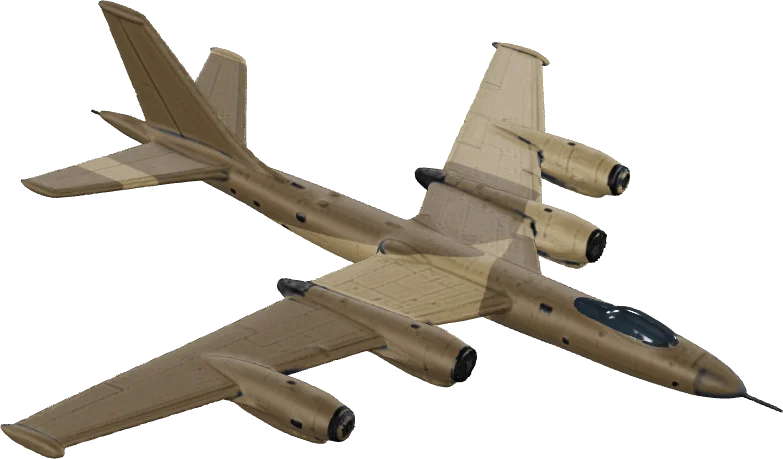
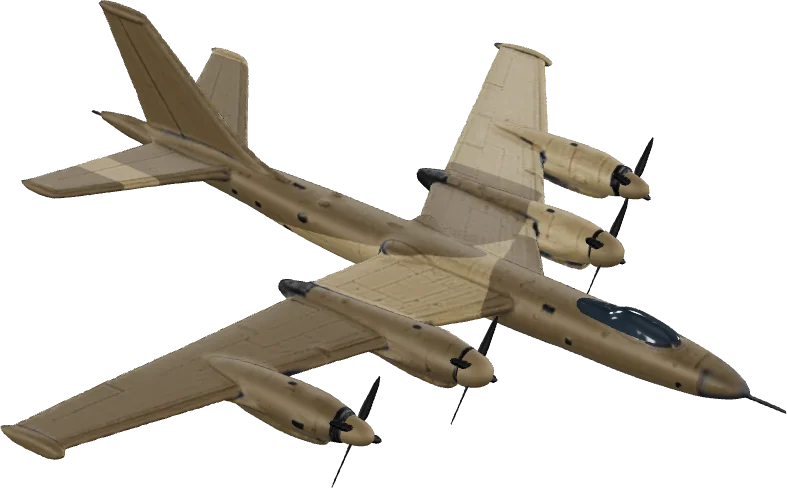
Сайт: логотип и заголовок вместо самолёта наверху, у бомбардировщика крутятся винты
Самолёт в первом экране дублировал карточки ниже (замечание Kanta).
Винты «Кита» взяты из game/models/mech/fh_prop_bomber_1.glb и вращаются
анимацией вокруг своей оси, как в ангаре. ?h=1…5 показывает варианты
заголовка до выбора.

Claude-Session: https://claude.ai/code/session_01FSkwrJ9db99WWxfLP9pMWK

diff --git a/site/index.html b/site/index.html
@@ -59,7 +59,7 @@ html:not([lang="en"]) [data-l="en"],html[lang="en"] [data-l="ru"]{display:none!i
 /* Шапка */
 .top{position:relative;z-index:10;display:flex;justify-content:space-between;align-items:center;gap:12px;padding-top:18px;padding-bottom:18px}
 .brand{font:600 16px/1 var(--f-head);letter-spacing:.06em;color:var(--ink);text-decoration:none;white-space:nowrap}
-.brand i{font-style:normal;color:var(--acc)}
+.brand .emb{width:40px;height:40px;display:block;color:var(--ink)}
 .tools{display:flex;align-items:center;gap:8px}
 .lang{display:flex;background:rgb(255 255 255 / .6);border-radius:999px;padding:3px}
 .lang button{font:600 13px/1 var(--f-body);border:0;background:none;color:var(--dim);padding:8px 10px;border-radius:999px;cursor:pointer}
@@ -78,13 +78,15 @@ html:not([lang="en"]) [data-l="en"],html[lang="en"] [data-l="ru"]{display:none!i
 .cloud{position:absolute;border-radius:50%;background:radial-gradient(closest-side,#fff 0%,rgb(255 255 255 / .85) 45%,rgb(255 255 255 / 0) 100%);filter:blur(2px);animation:drift 40s ease-in-out infinite alternate;pointer-events:none}
 @keyframes drift{from{transform:translateX(-5%)}to{transform:translateX(5%)}}
 .hero{position:relative;text-align:center;padding-top:clamp(20px,5vw,48px);padding-bottom:20px}
-.ghost{position:absolute;left:50%;top:64%;transform:translate(-50%,-50%);font:600 clamp(64px,15vw,210px)/1 var(--f-head);color:rgb(21 26 33 / .05);white-space:nowrap;pointer-events:none;z-index:1}
-.kicker{position:relative;z-index:2;font:600 12px/1.3 var(--f-body);letter-spacing:.24em;text-transform:uppercase;color:var(--dim)}
-h1{position:relative;z-index:2;font:300 clamp(34px,7vw,80px)/1.02 var(--f-head);margin:14px 0 14px;letter-spacing:-.02em;text-wrap:balance}
-h1 b{font-weight:600;display:block}
+.kicker{position:relative;z-index:2;font:600 12px/1.3 var(--f-body);letter-spacing:.24em;text-transform:uppercase;color:var(--dim);margin:0 0 14px}
+.logo{position:relative;z-index:2;display:flex;flex-direction:column;align-items:center;gap:10px;margin:0 0 18px;color:var(--ink)}
+.logo .emb{width:clamp(72px,10vw,104px);height:auto;color:var(--ink);filter:drop-shadow(0 10px 16px rgb(30 50 80 / .18))}
+h1{margin:0;font:600 clamp(42px,9.5vw,118px)/.95 var(--f-head);letter-spacing:.01em;white-space:nowrap}
+h1 i{font-style:normal;color:var(--acc)}
+.slogan{position:relative;z-index:2;font:300 clamp(22px,3.6vw,40px)/1.15 var(--f-head);margin:0 0 14px;letter-spacing:-.01em;text-wrap:balance}
+.slogan b{font-weight:600}
 .sub{position:relative;z-index:2;max-width:48ch;margin:0 auto 24px;color:var(--dim);font-size:18px}
 .cta{position:relative;z-index:4;display:flex;flex-wrap:wrap;gap:10px;justify-content:center}
-.plane{position:relative;z-index:3;width:min(640px,88%);margin:10px auto 0;filter:drop-shadow(0 40px 30px rgb(30 50 80 / .28));animation:bob 6s ease-in-out infinite}
 @keyframes bob{0%,100%{transform:translateY(0) rotate(-1deg)}50%{transform:translateY(-12px) rotate(1deg)}}
 .facts{position:relative;z-index:4;display:flex;justify-content:center;flex-wrap:wrap;gap:10px 28px;margin:18px 0 0;padding:0;list-style:none}
 .facts li{font:600 14px/1.2 var(--f-body);color:var(--dim)}
@@ -168,7 +170,7 @@ footer p{margin:0 0 8px}
   <div class="cloud" style="width:760px;height:240px;left:12%;bottom:-70px;animation-duration:56s"></div>
 
   <header class="in top">
-    <a class="brand" href="/">FLAK <i>HEAVEN</i></a>
+    <a class="brand" href="/" aria-label="Flak Heaven"><svg class="emb sm" viewBox="0 0 100 100" aria-hidden="true"><g stroke="#e9a43c" stroke-width="3.2" stroke-linecap="round"><path d="M50 6v24M50 70v24M6 50h24M70 50h24M19 19l15 15M66 66l15 15M81 19L66 34M34 66L19 81"/><path d="M50 22l-3 8M78 50l-8-3M50 78l3-8M22 50l8 3M30 33l7 5M70 67l-7-5M67 30l-5 7M33 70l5-7" stroke-width="2.4" opacity=".8"/></g><path transform="rotate(35 50 50)" d="M50 18l6 20 18 10v5l-18-4-2 14 7 5v4l-11-2-11 2v-4l7-5-2-14-18 4v-5l18-10z" fill="currentColor"/></svg></a>
     <div class="tools">
       <button class="snd" id="snd" type="button" aria-pressed="false" title="Музыка из игры / Game music"><span class="bars" aria-hidden="true"><i></i><i></i><i></i></span><span class="t" data-l="ru">Звук</span><span class="t" data-l="en">Sound</span></button>
       <div class="lang"><button id="b-ru" aria-pressed="true">RU</button><button id="b-en" aria-pressed="false">EN</button></div>
@@ -177,16 +179,16 @@ footer p{margin:0 0 8px}
   </header>
 
   <section class="hero">
-    <div class="ghost" aria-hidden="true">FLAK HEAVEN</div>
     <img class="bubble" src="video/sea.jpg" alt="" style="left:4%;top:56%">
     <img class="bubble" src="img/shot_village.jpg" alt="" style="left:11%;top:80%;width:92px;animation-delay:-3s">
     <img class="bubble" src="video/convoy.jpg" alt="" style="right:5%;top:52%;animation-delay:-5s">
     <img class="bubble" src="img/shot_explosions.jpg" alt="" style="right:12%;top:78%;width:88px;animation-delay:-2s">
     <div class="in">
+      <div class="logo"><svg class="emb" viewBox="0 0 100 100" aria-hidden="true"><g stroke="#e9a43c" stroke-width="3.2" stroke-linecap="round"><path d="M50 6v24M50 70v24M6 50h24M70 50h24M19 19l15 15M66 66l15 15M81 19L66 34M34 66L19 81"/><path d="M50 22l-3 8M78 50l-8-3M50 78l3-8M22 50l8 3M30 33l7 5M70 67l-7-5M67 30l-5 7M33 70l5-7" stroke-width="2.4" opacity=".8"/></g><path transform="rotate(35 50 50)" d="M50 18l6 20 18 10v5l-18-4-2 14 7 5v4l-11-2-11 2v-4l7-5-2-14-18 4v-5l18-10z" fill="currentColor"/></svg><h1>FLAK <i>HEAVEN</i></h1></div>
       <div class="kicker" data-l="ru">Roguelike про боевую авиацию</div>
       <div class="kicker" data-l="en">Fighter-jet bullet heaven roguelite</div>
-      <h1 data-l="ru">Взлетайте выше.<b>Держитесь дольше.</b></h1>
-      <h1 data-l="en">Fly higher.<b>Hold out longer.</b></h1>
+      <p class="slogan" id="slogan-ru" data-l="ru">Небо, полное зениток.<br><b>Продержитесь 15 минут.</b></p>
+      <p class="slogan" id="slogan-en" data-l="en">A sky full of flak.<br><b>Survive 15 minutes.</b></p>
       <p class="sub" data-l="ru">Вид сверху, вылет на 15 минут. Каждый вылет вы собираете новый самолёт из оружия, модулей и ведомых.</p>
       <p class="sub" data-l="en">Top-down, 15-minute sorties. Every run you build a new plane from weapons, modules and wingmen.</p>
       <div class="cta">
@@ -197,7 +199,6 @@ footer p{margin:0 0 8px}
         <a class="pill" id="l-discord" href="#" hidden>Discord</a>
       </div>
     </div>
-    <img class="plane" src="img/plane_fighter.webp" width="845" height="429" alt="Истребитель из Flak Heaven / A Flak Heaven fighter">
     <ul class="facts in">
       <li><b>3</b><span data-l="ru">класса самолётов</span><span data-l="en">plane classes</span></li>
       <li><b>2</b><span data-l="ru">биома</span><span data-l="en">biomes</span></li>
@@ -362,6 +363,15 @@ document.getElementById("b-en").onclick=function(){setLang("en")};
 var saved=null;try{saved=localStorage.getItem("lang");}catch(e){}
 setLang(saved||((navigator.language||"").toLowerCase().indexOf("ru")===0?"ru":"en"));
 
+/* Превью вариантов заголовка: ?h=1…5 (только для выбора, после выбора убрать). */
+(function(){var n=+(new URLSearchParams(location.search).get("h")||0);var H=[null,
+  ["Взлетайте выше.<br><b>Держитесь дольше.</b>","Fly higher.<br><b>Hold out longer.</b>"],
+  ["Небо, полное зениток.<br><b>Продержитесь 15 минут.</b>","A sky full of flak.<br><b>Survive 15 minutes.</b>"],
+  ["15 минут<br><b>под зенитным огнём.</b>","15 minutes<br><b>under flak fire.</b>"],
+  ["Соберите самолёт<br><b>прямо в бою.</b>","Build your plane<br><b>mid-fight.</b>"],
+  ["Прорвитесь<br><b>сквозь зенитный огонь.</b>","Break through<br><b>the flak.</b>"]];
+  if(H[n]){document.getElementById("slogan-ru").innerHTML=H[n][0];document.getElementById("slogan-en").innerHTML=H[n][1];}})();
+
 /* Музыка из меню игры — только по кнопке (браузеры не дают включать звук сами). */
 (function(){var b=document.getElementById("snd"),a=document.getElementById("music");a.volume=.5;
   b.onclick=function(){if(a.paused){a.play().then(function(){b.setAttribute("aria-pressed","true");}).catch(function(){});}
@@ -382,7 +392,7 @@ setLang(saved||((navigator.language||"").toLowerCase().indexOf("ru")===0?"ru":"e
       m.setAttribute("camera-controls","");m.setAttribute("disable-zoom","");m.setAttribute("disable-pan","");
       m.setAttribute("touch-action","pan-y");m.setAttribute("interaction-prompt","none");
       m.setAttribute("camera-orbit","35deg 60deg 85%");m.setAttribute("field-of-view","22deg");
-      m.setAttribute("environment-image","neutral");m.setAttribute("exposure","1.05");m.setAttribute("shadow-intensity","0");
+      m.setAttribute("environment-image","neutral");m.setAttribute("autoplay","");m.setAttribute("exposure","1.05");m.setAttribute("shadow-intensity","0");
       if(!reduce){m.setAttribute("auto-rotate","");m.setAttribute("auto-rotate-delay","1500");m.setAttribute("rotation-per-second","18deg");}
       var pb=document.createElement("div");pb.setAttribute("slot","progress-bar");m.appendChild(pb);
       m.setAttribute("src",m.dataset.src);});
